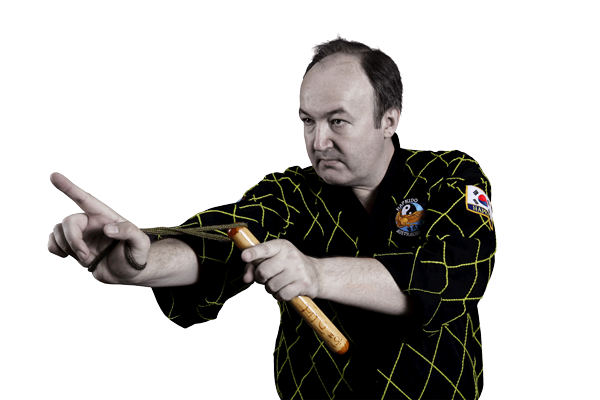
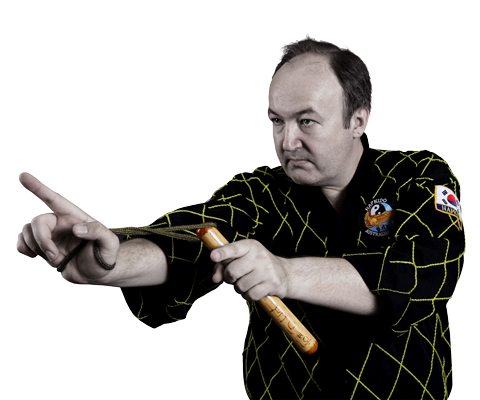
style tuned again

diff --git a/web/css/static.css b/web/css/static.css
@@ -1,9 +1,9 @@
 #PageContent #ContentLeft {
   min-height: 520px;
   width: 820px;
-  padding: 0 21px 0 0;
+  padding: 0 0 20px 80px;
   float: left;
-  text-align: center;
+  text-align: left;
 }
 
 #PageContent #ContentLeft .image {
@@ -12,7 +12,6 @@
 
 #PageContent #ContentRight {
   padding: 0 3px 0 12px;
-  /* border-left: 1px solid #e5e5e5; */
   position: relative;
   margin-left: 840px;
   min-height: 520px;
@@ -25,38 +24,36 @@
 
 #PageContent #ContentLeft .content_left {
   width: 400px;
-  padding-left: 120px;
-  text-align: left !important;
+  margin-top: -20px;
   float: left;
 }
 
 #PageContent #ContentLeft .img_right {
-  padding: 0 3px 0 12px;
+  padding: 50px 0 0;
+  margin-left: 400px;
   position: relative;
-  padding-top: 50px;
 }
 
 #PageContent #ContentLeft .img_left {
   width: 400px;
-  padding: 0 3px 0 12px;
+  padding: 0 3px 0 0;
   float: left;
 }
 
 #PageContent #ContentLeft .content_right {
-  padding-left: 2px;
+  padding: 20px 0 0;
   position: relative;
   text-align: left !important;
-  margin-right: -100px;
+  margin-right: -10px;
+  font-size: 12px;
 }
 
 #PageContent #ContentLeft .content_all {
-  padding-left: 120px;
   margin-top: -40px;
   text-align: left !important;
 }
 
 #PageContent #ContentLeft .img_all {
-  padding-left: 20px;
   margin-top: -20px;
   text-align: left !important;
 }
@@ -67,16 +64,18 @@
 
 #PageContent #ContentLeft .content_danbong {
   width: 350px;
-  padding-left: 60px;
   margin-top: -40px;
   text-align: left !important;
   float: left;
 }
 
 #PageContent #ContentLeft .img_danbong {
-  padding: 80px 0 0;
+  padding: 80px 50px 0;
   position: relative;
   margin-right: -250px;
   text-align: left;
-  /* margin-left: 450px; */
+}
+
+.speciallink {
+	cursor: text;
 }

diff --git a/web/css/layout.css b/web/css/layout.css
@@ -4,6 +4,11 @@ html, body {
 
 body {
 	background: url("../images/bg-body.png") repeat-x scroll center top transparent;
+	font-family: "sans-serif";
+}
+
+h1 {
+	color: #00217E;
 }
 
 div#Wrapper {
@@ -40,14 +45,12 @@ div#Wrapper {
   padding: 10px 0 0 5px;
   position: relative;
   text-align: center;
-  /* width: 93%; */
 }
 
 #Header .Navigation li {
   float: left;
   margin-left: 9px;
   position: relative;
-  /* width: 78px; */
 }
 
 #Header .Navigation li a {
@@ -57,13 +60,8 @@ div#Wrapper {
   line-height: 33px;
   padding: 0 5px;
   color: #666666;
-  /* font-weight: bold; */
   font-size: 14px;
 }
-
-/* #Header .Navigation li a:hover {
-  color: blue;
-} */
 
 #Header .Navigation li.current {
   font-weight: bold;
@@ -84,7 +82,6 @@ div#Wrapper {
 	right: -450px;
 	width: 620px;
 	z-index: 25;
-	/* background:#ddd; */
 	padding: 2px;
 	list-style: none;
 }
@@ -103,17 +100,16 @@ div#Wrapper {
 
 #PageContent {
   width: 998px;
-  margin: 8px 0 0 0;
+  margin: 8px 0 10px 0;
 }
 
 #Footer {
-  /* border-top: 1px solid #e5e5e5; */
   background: url("../images/bg-footer.png") repeat-x scroll center bottom transparent;
   display: block;
+  font-family: "sans-serif";
   font-size: 60%;
   color: #77766F;
   text-align: center !important;
-  /* float: left; */
   height: 25px;
   margin: 5px 0 0 -6px;
   padding: 5px 0 0;
@@ -276,7 +272,7 @@ a .abig20 {
     font-weight: normal;
 }
 a:link {
-    color: #000000;
+    color: #00217E;
     text-decoration: none;
 }
 a:visited {

diff --git a/apps/frontend/modules/static/templates/_contact_us.php b/apps/frontend/modules/static/templates/_contact_us.php
@@ -1,34 +1,53 @@
 <div id="ContentLeft">
 	<div class="content_left">
 		<p class="speciallink">
-			<span class="abig16">Contact</span>
+			<font class="abig18">CONTACT</font>
 		</p>
 		<p class="speciallink">
-			<span class="abig40">International<br /> Hapkido Alliance
+			<span class="abig40">International<br> Hapkido Alliance
+			</span>
+		</p>
+
+		<table>
+			<tr>
+				<td class="abig10 tl" width="60">phone:</td>
+				<td class="abig16 tl">(+612) 9824 2999</td>
+			</tr>
+			<tr>
+				<td class="abig10 tl">fax:</td>
+				<td class="abig16 tl">(+612) 9824 1767</td>
+			</tr>
+			<tr>
+				<td class="abig10 tl">mobile:</td>
+				<td class="abig16 tl">(+61) 414 247 220</td>
+			</tr>
+			<tr>
+				<td class="abig10 tl">website:</td>
+				<td class="abig16 tl"><a href="http://www.hapkido.com.au"
+					target="_blank">www.hapkido.com.au</a>
+				</td>
+			</tr>
+			<tr>
+				<td class="abig10 tl">email:</td>
+				<td class="abig16 tl"><a href="mailto:info@hapkido.com.au">info@hapkido.com.au</a>
+				</td>
+			</tr>
+		</table>
+
+		<p class="speciallink">
+			<span class="abig16">PHYSICAL ADDRESS:</span><br> <span
+				class="abig16">4/1 Field Close<br>Moorebank NSW 2170<br>Australia
 			</span>
 		</p>
 
 		<p class="speciallink">
-			<span class="abig16"> phone: (+612) 9824 2999 <br> fax: (+612) 9824
-				1767 <br> mobile: (+61) 414 247 220 <br> website: <a
-				href="http://www.hapkido.com.au" target="_blank">www.hapkido.com.au</a>
-				<br> email: <a href="mailto:info@hapkido.com.au">info@hapkido.com.au</a>
+			<span class="abig16">POSTAL ADDRESS:</span><br> <span class="abig16">PO
+				Box 1014<br>Liverpool NSW 1871<br>Australia
 			</span>
-		</p>
 
-		<p class="speciallink">
-			<span class="abig16">PHYSICAL ADDRESS:</span><br /> <span
-				class="abig16">4/1 Field Close<br />Moorebank NSW 2170<br />Australia
-			</span>
-		</p>
-
-		<p class="speciallink">
-			<span class="abig16">POSTAL ADDRESS:</span><br /> <span
-				class="abig16">PO Box 1014<br />Liverpool NSW 1871<br />Australia
-			</span>
 		</p>
 	</div>
 	<div class="img_right">
-		<?php echo content_tag('img', '', array('width'=>'150', 'height'=>'453', 'src' => 'images/GM_Booth_01_small.jpg')); ?>
+		<?php echo content_tag('img', '', array('width'=>'350', 'height'=>'500', 'src' => 'images/GM_Booth_01_small.jpg')); ?>
 	</div>
 </div>

diff --git a/apps/frontend/modules/static/templates/_MerchandiseIHADanBong.php b/apps/frontend/modules/static/templates/_MerchandiseIHADanBong.php
@@ -38,7 +38,7 @@
 
 	</div>
 	<div class="img_danbong">
-		<img src="images/GM_Booth_Weapon_01_small.png" width="600px"
+		<img src="images/GM_Booth_Weapon_01_small.png" width="480px"
 			height="400px" />
 	</div>
 
